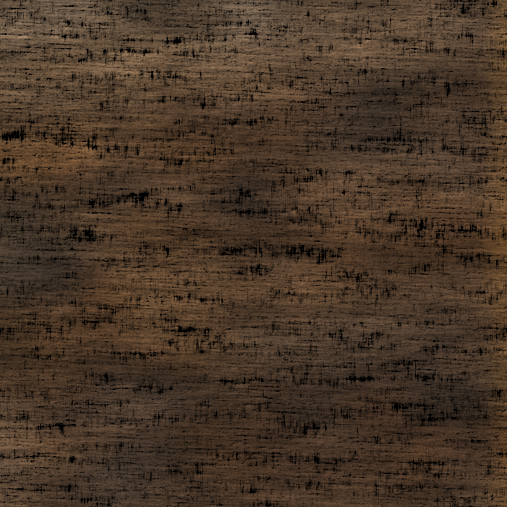
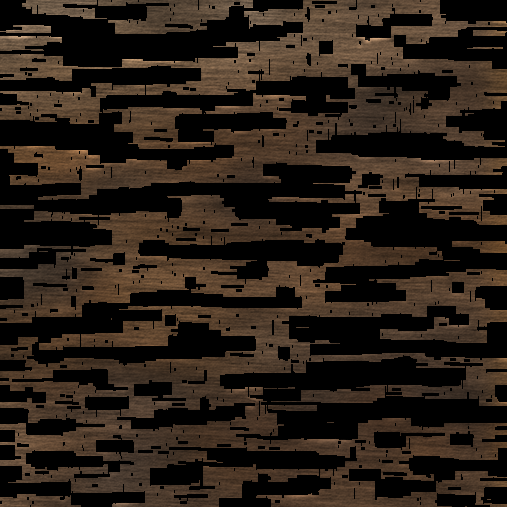
fix: canalize valley grooves — flat floors, horizontal runs
HB stipple becomes elongated flat-bottom grooves via quantile seeding,
horizontal gap-bridging, and row-shift band thickening (avoids vertical
morph merge). Tunes coarse layer so fissures don't punch black holes.

diff --git a/scripts/wood-grain-fourier-synthesis.py b/scripts/wood-grain-fourier-synthesis.py
@@ -27,7 +27,8 @@ STAGES:
                      coarse = deep envelope minus fine (big fissures only).
   3. Feature scale -- optional spectrum zoom per layer (native = 1.0).
   4. Heeger-Bergen -- match spectrum + sparse depth histogram per layer.
-  5. Sharpen      -- steepen valley walls before compositing (not Gaussian).
+  5. Canalize     -- threshold HB placement, bridge gaps along grain, flat floor
+                     bands (stops spray-can stipple).
   6. Directional rim -- vertical gradient of combined valley depth.
   7. Patchy rim   -- thresholded low-frequency mask on the rim.
   8. Composite    -- height map: neutral + grain ripple - valley cuts + rim.
@@ -44,7 +45,7 @@ from pathlib import Path
 
 import numpy as np
 from PIL import Image
-from scipy.ndimage import gaussian_filter, grey_dilation, zoom
+from scipy.ndimage import gaussian_filter, grey_closing, grey_dilation, zoom
 
 # ---- tuned parameters (see STUDY-032) ----
 FINE_VALLEY_RADIUS = 7         # vertical ridge envelope for fine checking (px)
@@ -54,11 +55,18 @@ FEATURE_SCALE = 1.0            # native scale (9.0 was bubbly blobs — 2026-08-
 COARSE_FEATURE_SCALE = 1.0
 ITERATIONS = 6                 # Heeger-Bergen rounds per valley layer
 FINE_VALLEY_STRENGTH = 0.72    # how deep fine grooves cut the height map
-COARSE_VALLEY_STRENGTH = 1.35  # big fissures cut deeper
-FINE_VALLEY_FLOOR = 0.12       # sharpen: discard shallow noise
-FINE_VALLEY_POWER = 1.55
-COARSE_VALLEY_FLOOR = 0.08
-COARSE_VALLEY_POWER = 1.75
+COARSE_VALLEY_STRENGTH = 0.95  # big fissures — visible but not black holes
+FINE_VALLEY_FLOOR = 0.10       # sharpen: discard shallow noise
+FINE_VALLEY_POWER = 1.35       # lower power — less stipple before canalize
+COARSE_VALLEY_FLOOR = 0.06
+COARSE_VALLEY_POWER = 1.25
+FINE_VALLEY_CONNECT = 20       # bridge gaps along grain (px)
+FINE_VALLEY_BAND = 2           # flat groove thickness (px tall)
+COARSE_VALLEY_CONNECT = 36
+COARSE_VALLEY_BAND = 4
+COARSE_GROOVE_QUANTILE = 0.97  # coarse layer: slightly more ink
+GROOVE_THRESHOLD = 0.35        # floor for adaptive quantile threshold
+GROOVE_QUANTILE = 0.98         # sparse seeds — HB stipple is mostly sub-threshold
 RIM_PRE_BLUR = 2.0             # rim only — valleys stay sharp
 RIM_STRENGTH = 0.6
 TOP_FRACTION = 0.2
@@ -122,6 +130,50 @@ def sharpen_valleys(field: np.ndarray, floor: float, power: float) -> np.ndarray
     return scaled**power
 
 
+def flat_band(mask: np.ndarray, band_px: int) -> np.ndarray:
+    """Thicken horizontal grooves in-place — flat floor, no vertical morph merge."""
+    band = max(1, int(band_px))
+    if band == 1:
+        return mask
+    out = mask.copy()
+    for k in range(1, band):
+        out[k:] |= mask[:-k]
+        out[:-k] |= mask[k:]
+    return out
+
+
+def canalize_valleys(
+    field: np.ndarray,
+    floor: float,
+    power: float,
+    connect_px: int,
+    band_px: int,
+    groove_quantile: float = GROOVE_QUANTILE,
+) -> np.ndarray:
+    """Horizontal grooves with flat floors — not spray-can stipple.
+
+    HB + sharpen alone leaves isolated spikes. Real checking is elongated:
+    bridge gaps along the grain, cap vertical thickness, then fill each groove
+    band to uniform depth (flat valley floor).
+    """
+    norm = sharpen_valleys(field, floor, power)
+    peak = norm.max()
+    if peak <= 0:
+        return norm
+    norm = norm / peak
+    positives = norm[norm > 1e-6]
+    thr = GROOVE_THRESHOLD
+    if positives.size:
+        thr = max(thr, float(np.quantile(positives, groove_quantile)))
+    groove = norm >= thr
+
+    connect = max(3, int(connect_px) | 1)
+    groove = grey_closing(groove.astype(np.uint8), structure=np.ones((1, connect), dtype=bool)) > 0
+    groove = flat_band(groove, band_px)
+
+    return groove.astype(np.float32)
+
+
 def synthesize_valley_field(
     valley_real: np.ndarray,
     win: np.ndarray,
@@ -177,8 +229,17 @@ def synthesize(input_path: Path, name: str, out_dir: Path) -> None:
     valley_coarse = synthesize_valley_field(
         valley_coarse_real, win, COARSE_FEATURE_SCALE, rng_coarse
     )
-    valley_fine = sharpen_valleys(valley_fine, FINE_VALLEY_FLOOR, FINE_VALLEY_POWER)
-    valley_coarse = sharpen_valleys(valley_coarse, COARSE_VALLEY_FLOOR, COARSE_VALLEY_POWER)
+    valley_fine = canalize_valleys(
+        valley_fine, FINE_VALLEY_FLOOR, FINE_VALLEY_POWER, FINE_VALLEY_CONNECT, FINE_VALLEY_BAND
+    )
+    valley_coarse = canalize_valleys(
+        valley_coarse,
+        COARSE_VALLEY_FLOOR,
+        COARSE_VALLEY_POWER,
+        COARSE_VALLEY_CONNECT,
+        COARSE_VALLEY_BAND,
+        COARSE_GROOVE_QUANTILE,
+    )
     valley_combined = np.clip(valley_fine + valley_coarse, 0, 1)
 
     # 6. directional rim from valley relief (fiber lip beside the groove)

diff --git a/docs/study/STUDY-032-photographic-wood-grain-synthesis.md b/docs/study/STUDY-032-photographic-wood-grain-synthesis.md
@@ -76,12 +76,12 @@ wood-01) synthesised separately via Heeger–Bergen, sharpened (`floor` +
 `shading = 128 + grain − valley_fine − valley_coarse + rim`. Rim still uses a
 directional vertical gradient of combined valley depth (one-sided fiber lip).
 
-**[D]** `FEATURE_SCALE` on the valley spectrum is the dominant knob for crack
-*placement density*, not valley **shape** (shape comes from morphological depth
-+ sharpen). At **9.0** (early tuning) the synthesized field was fat and bubbly.
-At **1.0** (native measured scale) wood-01 remakes read as fine horizontal
-checking; owner marked this a major breakthrough 2026-08-22. Reference:
-`design/progression/breakthrough-wood-01-final.png`.
+**[D]** HB + sharpen alone reads as spray-can stipple — isolated spikes with
+no grain direction. Post-process **canalize**: adaptive quantile threshold,
+horizontal `grey_closing` to bridge gaps along the grain, then `flat_band`
+(row-shift thicken, not vertical morph dilation) for uniform-depth groove
+floors. Owner pass 2026-08-22: directionality and flat valleys improved;
+coarse fissure band still tuning.
 
 **[D]** Feature size is controllable independently of the recipe's shape via
 the **Fourier scaling theorem** (`f(kx,ky) ↔ (1/k²)F(u/k,v/k)`): zooming the
